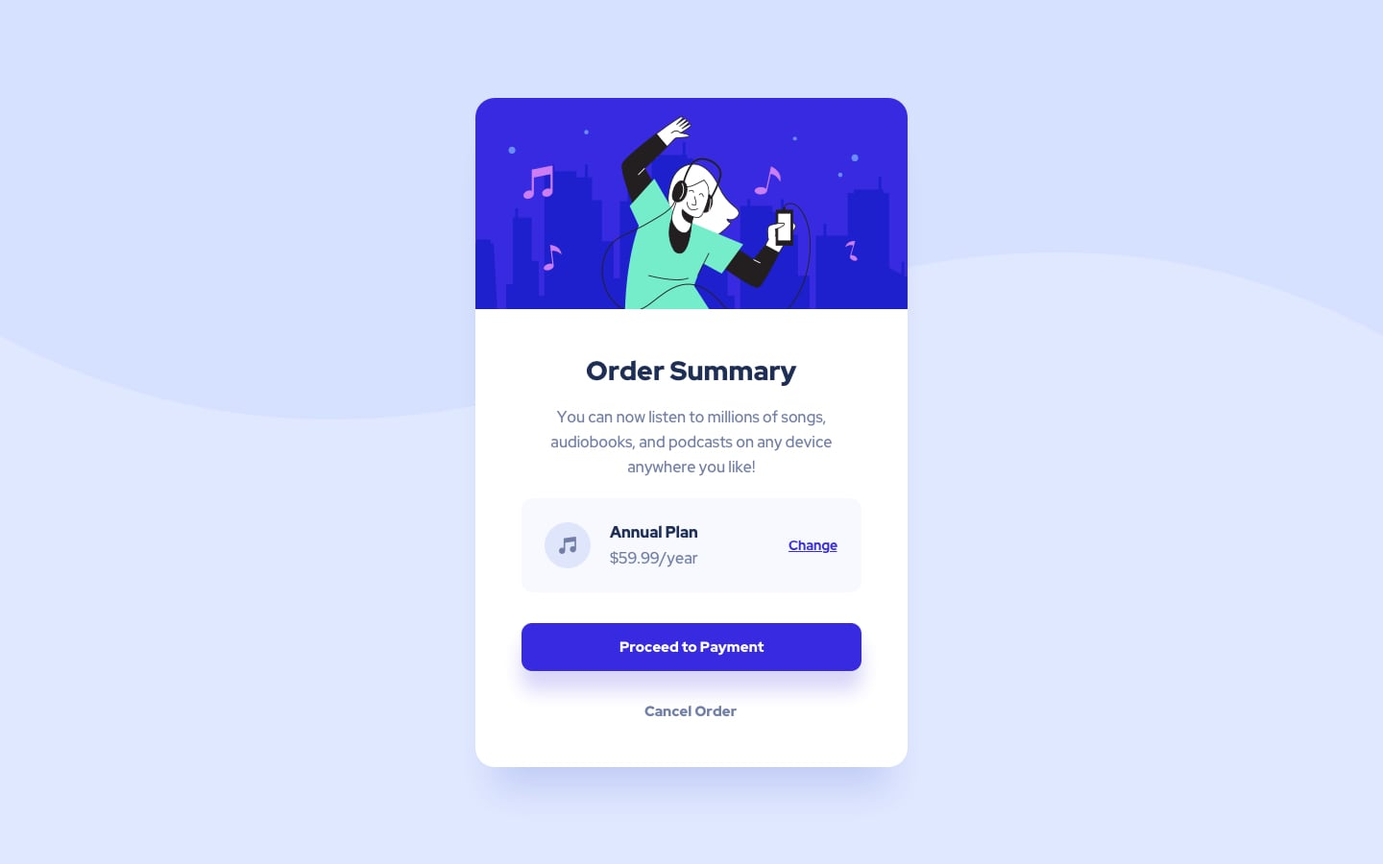
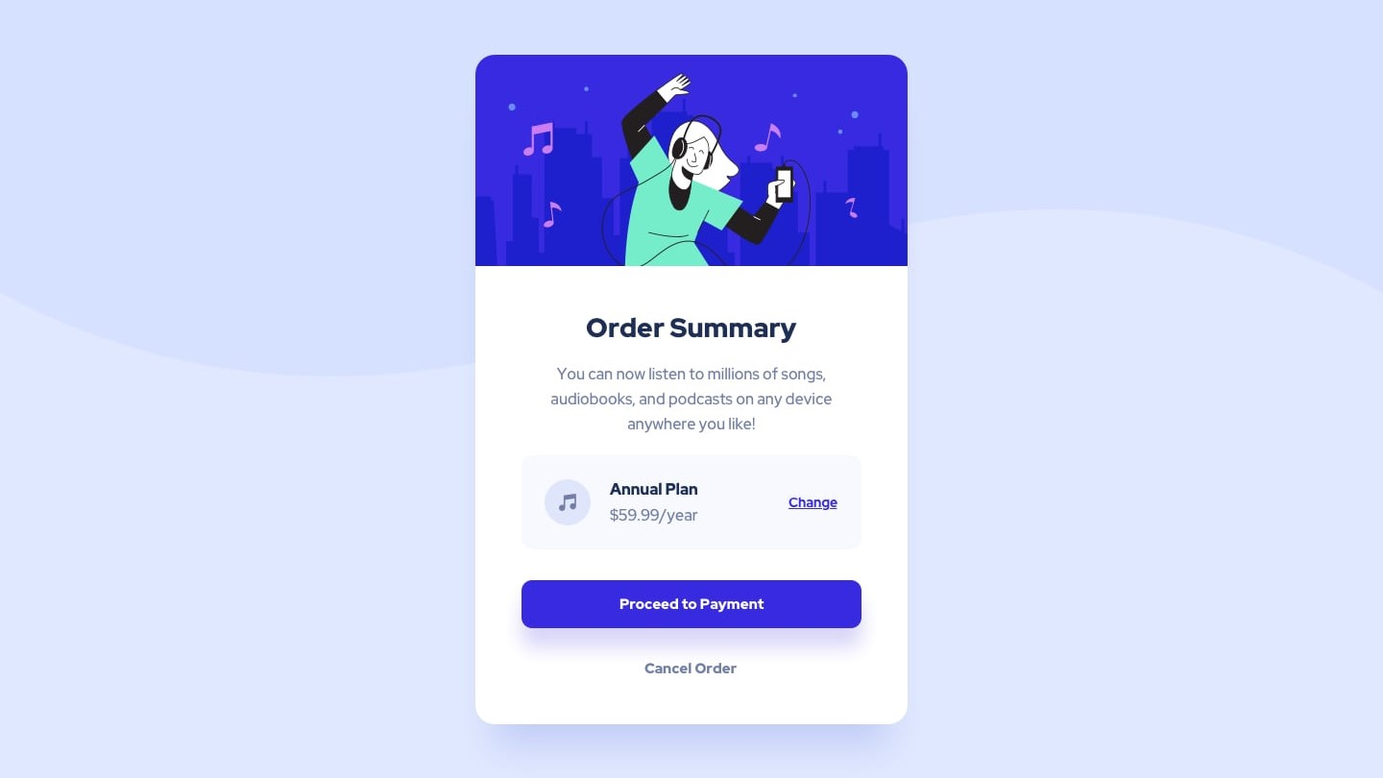
Finished most of the challenge

diff --git a/index.html b/index.html
@@ -1,37 +1,139 @@
 <!DOCTYPE html>
 <html lang="en">
+
 <head>
   <meta charset="UTF-8">
-  <meta name="viewport" content="width=device-width, initial-scale=1.0"> <!-- displays site properly based on user's device -->
-
+  <meta name="viewport" content="width=device-width, initial-scale=1.0">
+  <!-- displays site properly based on user's device -->
+  <link rel="stylesheet" href="./styles.css">
   <link rel="icon" type="image/png" sizes="32x32" href="./images/favicon-32x32.png">
-  
+
   <title>Frontend Mentor | Order summary card</title>
-
-  <!-- Feel free to remove these styles or customise in your own stylesheet 👍 -->
-  <style>
-    .attribution { font-size: 11px; text-align: center; }
-    .attribution a { color: hsl(228, 45%, 44%); }
-  </style>
 </head>
+
 <body>
-
-  Order Summary
-
-  You can now listen to millions of songs, audiobooks, and podcasts on any 
-  device anywhere you like!
-
-  Annual Plan
-  $59.99/year
-
-  Change
-
-  Proceed to Payment
-  Cancel Order
-  
+  <div class="back">
+    <img src="./images/pattern-background-desktop.png" alt="">
+  </div>
+  <div class="parent">
+    <div class="card">
+      <svg xmlns="http://www.w3.org/2000/svg" xmlns:xlink="http://www.w3.org/1999/xlink" width="450" height="220">
+        <defs>
+          <path id="a" d="M0 0h450v220H0z" />
+        </defs>
+        <g fill="none" fill-rule="evenodd">
+          <mask id="b" fill="#fff">
+            <use xlink:href="#a" />
+          </mask>
+          <use fill="#382AE1" xlink:href="#a" />
+          <path fill="#1E1FCD" fill-rule="nonzero"
+            d="M218.812 46v13.368h1.685v3.623h6.303v77.983l12.758 6.699v-12.891h3.046v14.545l2.984 1.543v112.908L31.9 266.214v-72.237h7.013V124.52h2.548v-9.55h3.045v9.55h14.15l-.001.014v.196c-.01 2.072-.088 19.036-.094 31.525v3.018c.003 5.998.028 10.37.094 10.445.066.075.784.104 1.747.108h.5c2.152-.008 5.071-.108 5.071-.108v36.439h5.786V76.399h7.379v-7.156h3.045V76.4h23.111v6.395h8.79v-13.55h3.045v13.55h4.314v23.771h10.353v42.63h12.18v38.692h6.384v-80.419h8.04V95.156h3.044v12.312h22.117V63.022h6.455v-3.654h25.75V46h3.046zM15.842 147.489v4.151h3.198L25.475 265.9H-8l6.445-114.259H.962v-4.151h14.88z"
+            mask="url(#b)" />
+          <path fill="#1E1FCD" fill-rule="nonzero"
+            d="M422.812 82v13.368h1.685v3.623h6.303v77.983l12.758 6.699v-12.891h3.046v14.545l2.984 1.543v112.908L235.9 302.214v-72.237h7.013V160.52h2.548v-9.55h3.045v9.55h14.15l-.001.014v.196c-.01 2.072-.088 19.036-.094 31.525v3.018c.003 5.998.028 10.37.094 10.445.066.075.784.104 1.747.108h.5c2.152-.008 5.071-.108 5.071-.108v36.439h5.786V112.399h7.379v-7.156h3.045v7.156h23.111v6.395h8.79v-13.55h3.045v13.55h4.314v23.771h10.353v42.63h12.18v38.692h6.384v-80.419h8.04v-12.312h3.044v12.312h22.117V99.022h6.455v-3.654h25.75V82h3.046zm-202.97 101.489v4.151h3.198l6.435 114.259H196l6.445-114.259h2.517v-4.151h14.88z"
+            mask="url(#b)" />
+          <g fill-rule="nonzero" mask="url(#b)">
+            <path fill="#FFF"
+              d="M224.743 27.894c-.147-2.117-9.625 4.042-9.625 4.042s8.029-6.159 7.34-7.698c-.688-1.54-9.734 5.196-9.734 5.196s8.257-6.351 6.982-7.707c-1.275-1.357-10.093 5.782-10.093 5.782s8.992-7.9 5.56-8.092c-1.541-.082-13.643 8.138-26.754 18.008 3.67 4.582 7.34 9.008 11.304 13.288 4.202-4.344 7.514-7.799 7.964-8.376 1.348-1.732 14.744-.577 14.799-2.694.055-2.117-8.826-3.08-8.826-3.08s11.23-6.552 11.083-8.669z" />
+            <path fill="#231F20"
+              d="M199.667 51.125a.404.404 0 01-.302-.128c-3.524-3.812-7.12-8.037-11.332-13.316a.421.421 0 01-.091-.311.458.458 0 01.165-.284c9.698-7.332 24.837-18.081 27.002-18.081.485-.046.942.234 1.12.687.293.825-.734 2.346-2.083 3.877 2.514-1.677 5.028-2.97 5.817-2.126.186.2.273.471.238.742-.064.751-.917 1.833-2.055 3.033 1.725-1.017 3.34-1.787 4.083-1.594a.77.77 0 01.55.43c.45.963-1.275 2.924-3.284 4.766 2.156-1.155 4.34-2.09 5.175-1.668a.834.834 0 01.468.715c.137 1.98-7.157 6.561-10.286 8.43 2.863.395 8.01 1.375 7.964 3.355 0 1.439-3.037 1.677-7.945 1.933-2.863.156-6.423.349-6.937 1.008-.514.66-3.028 3.281-7.991 8.413a.45.45 0 01-.276.12zM188.96 37.498c3.955 4.949 7.34 8.972 10.717 12.6 5.817-6.01 7.34-7.679 7.624-8.018.697-.916 3.322-1.1 7.551-1.329 2.496-.137 7.139-.384 7.157-1.118 0-1.072-4.367-2.208-8.45-2.657a.413.413 0 01-.358-.33.421.421 0 01.192-.45c5.441-3.152 11.01-7.11 10.937-8.247-.569-.394-4.68 1.613-8.982 4.408a.422.422 0 01-.477-.687c4.138-3.171 7.496-6.534 7.184-7.194-.615-.303-4.799 2.144-9.093 5.36a.422.422 0 01-.514-.668c2.634-2.034 6.845-5.728 6.955-6.983v-.1c-.514-.57-5.074 2.208-9.551 5.818a.432.432 0 01-.587-.064.403.403 0 010-.577c3.202-2.823 6.477-6.415 6.184-7.23 0-.083-.211-.12-.376-.129-1.257-.064-11.543 6.653-26.113 17.595z" />
+            <path fill="#231F20"
+              d="M153.058 68.876c-2.698 8.514 13.597 47.837 13.597 47.837l20.186-24.917c-.45-.77-10.653-18.493-10.653-18.493s15.057-13.92 23.452-22.59c-3.945-4.28-7.67-8.743-11.304-13.288-16.111 12.133-33.792 26.76-35.278 31.451z" />
+            <path fill="#231F20"
+              d="M166.655 117.117h-.1a.394.394 0 01-.313-.248c-.67-1.604-16.322-39.543-13.606-48.103 1.532-4.83 19.268-19.52 35.443-31.653a.404.404 0 01.56.064c4.193 5.26 7.78 9.476 11.295 13.27.14.157.14.393 0 .55-7.735 7.991-21.287 20.583-23.241 22.388a54892.79 54892.79 0 0010.505 18.218c.09.14.09.32 0 .459l-20.185 24.908a.404.404 0 01-.358.147zm21.635-79.133c-15.23 11.473-33.379 26.393-34.865 31.011-2.44 7.698 11.258 41.853 13.322 46.93l19.617-24.166-10.506-18.255a.421.421 0 01.083-.504c.146-.137 14.827-13.746 23.176-22.296-3.376-3.666-6.826-7.716-10.827-12.72z" />
+            <path fill="#FFF"
+              d="M201.044 109.529c1.651 11.418 9.257 21.077 17.515 29.902 4.945 5.242 11.01 10.576 18.25 10.237 3.458-.174 6.706-1.66 9.725-3.345a73.677 73.677 0 0019.974-16.212 4.476 4.476 0 01-4.468-3.995 8.854 8.854 0 009.175-1.027c5.615-4.453 2.89-8.385-1.404-11.702a51.724 51.724 0 01-15.551-19.62c-5.359-11.97-16.002-27.96-31.765-24.313-15.157 3.5-19.268 17.082-21.36 30.553a31.9 31.9 0 00-.091 9.522z" />
+            <path fill="#231F20"
+              d="M236.13 150.098c-7.111 0-13.02-5.223-17.874-10.383-7.753-8.247-15.91-18.264-17.625-30.122a32.412 32.412 0 01.064-9.696c.918-5.773 2.376-13.169 5.835-19.162a23.56 23.56 0 0115.837-11.74c7.193-1.658 20.937-.678 32.25 24.551a51.119 51.119 0 0015.424 19.465c3.211 2.483 4.716 4.665 4.734 6.882 0 1.833-1.11 3.72-3.33 5.499a9.276 9.276 0 01-8.854 1.384 4.12 4.12 0 003.899 2.886.413.413 0 01.395.239.403.403 0 01-.065.449 73.292 73.292 0 01-20.084 16.358c-2.835 1.576-6.24 3.216-9.91 3.39h-.697zm-9.295-80.773c-1.439 0-2.873.164-4.276.486-14.89 3.446-18.91 16.55-21.038 30.242a31.616 31.616 0 00-.064 9.439c1.679 11.638 9.744 21.536 17.432 29.674 4.882 5.186 10.818 10.447 17.92 10.08 3.495-.165 6.789-1.76 9.542-3.29a72.532 72.532 0 0019.267-15.533 4.924 4.924 0 01-4.018-4.316.403.403 0 01.183-.376.395.395 0 01.413 0 8.431 8.431 0 008.707-.972c2.01-1.603 3.028-3.225 3.01-4.83 0-1.905-1.45-3.94-4.404-6.222a52.017 52.017 0 01-15.672-19.776c-9.074-20.308-19.662-24.606-27.002-24.606z" />
+            <path fill="#FFF"
+              d="M305.851 145.37c-.642 2.538-11.184 21.343-11.184 21.343l13.763 7.432s12.45-20.84 13.514-22.223c1.065-1.384 10.093-13.398 11.323-17.613 1.23-4.216-7.45-7.332-11.01-6.993-3.56.34-15.763 15.515-16.406 18.054z" />
+            <path fill="#231F20"
+              d="M308.411 174.567a.361.361 0 01-.193-.055l-13.762-7.432a.403.403 0 01-.202-.257.394.394 0 010-.32c3.67-6.48 10.634-19.246 11.139-21.234.679-2.694 13.02-18.044 16.744-18.328 2.707-.23 8.35 1.41 10.616 4.15a3.598 3.598 0 01.844 3.373c-1.312 4.582-11.295 17.632-11.386 17.76-1.046 1.348-13.369 21.994-13.497 22.178a.395.395 0 01-.303.165zm-13.166-8.028l13.02 7.047c1.678-2.813 12.33-20.62 13.33-21.92 2.102-2.75 10.149-13.637 11.25-17.477a2.747 2.747 0 00-.689-2.611c-2.064-2.502-7.431-4.06-9.89-3.85-3.358.294-15.451 15.58-16.011 17.742-.606 2.392-9.487 18.347-11.01 21.069z" />
+            <path fill="#231F20"
+              d="M301.897 153.498l-12.295 14.975-26.516-17.751-11.295 21.004s37.554 28.161 42.876 25.467c5.321-2.694 21.442-35.924 21.442-35.924l-14.212-7.77z" />
+            <path fill="#231F20"
+              d="M293.814 197.761c-7.744 0-38.6-22.965-42.27-25.714a.412.412 0 01-.11-.514l11.294-21.004a.404.404 0 01.578-.147l26.195 17.55 12.066-14.663a.395.395 0 01.504-.1l14.258 7.77a.412.412 0 01.165.532c-.66 1.366-16.267 33.385-21.662 36.107-.32.141-.67.204-1.018.183zm-41.509-26.154c10.607 7.927 38.031 27.327 42.206 25.229 4.853-2.466 19.387-31.855 21.103-35.392l-13.616-7.433-12.084 14.718a.386.386 0 01-.532.083l-26.158-17.513-10.919 20.308zM313.155 116.878l-.12 36.62h17.351v-36.62z" />
+            <path fill="#231F20"
+              d="M330.386 153.938h-17.35a.404.404 0 01-.404-.412l.11-36.657a.413.413 0 01.413-.403h17.23c.224 0 .404.18.404.403v36.657a.403.403 0 01-.403.412zm-16.938-.806h16.516v-35.85H313.54l-.092 35.85z" />
+            <path fill="#FFF" d="M314.916 120.113l-.091 28.776h13.781v-28.776z" />
+            <path fill="#231F20"
+              d="M328.606 149.301h-13.763a.404.404 0 01-.294-.119.403.403 0 01-.119-.302l.083-28.767a.422.422 0 01.422-.412h13.689c.228 0 .413.184.413.412v28.776a.413.413 0 01-.431.412zm-13.36-.861h12.938v-27.905h-12.846l-.091 27.905z" />
+            <path fill="#FFF"
+              d="M305.099 147.276s-2.587-12.335 1.294-14.269c3.88-1.933 17.221-4.197 15.157-1.173s-9.294 4.894-9.294 4.894 1.486 4.316-.147 7.377" />
+            <path fill="#231F20"
+              d="M305.099 147.688a.404.404 0 01-.404-.33c-.11-.513-2.615-12.674 1.514-14.727 3.35-1.658 14.157-3.794 15.735-1.997a1.09 1.09 0 01-.055 1.438c-1.835 2.75-7.496 4.49-9.11 4.95.339 1.2 1.11 4.636-.303 7.33a.422.422 0 01-.57.165.43.43 0 01-.173-.568c1.532-2.859.137-6.992.119-7.038a.412.412 0 010-.33.44.44 0 01.266-.21c.073 0 7.101-1.833 9.056-4.72.137-.202.174-.348.11-.422-.991-1.136-11.01.367-14.735 2.2-2.946 1.466-1.762 10.456-1.065 13.801a.412.412 0 01-.32.495l-.065-.037z" />
+            <path fill="#75ECCA"
+              d="M209.173 123.32l-22.855-39.185-25.69 28.491 9.541 20.546s-14.68 34.705-14.68 102.73c0 0 78.154-.339 97.825-.339l-25.69-39.91s6.423-18.493 9.735-23.112l19.13 10.402 22.37-30.434-69.686-29.188z" />
+            <path fill="#231F20"
+              d="M208.843 160.674c12.615 7.331 15.597-22.47 16.157-28.922.256-1.775.15-3.583-.312-5.316-.725-2.199-2.422-3.903-4.12-5.498-2.027-1.833-4.367-3.757-7.129-3.876a8.26 8.26 0 00-6.578 3.436 20.15 20.15 0 00-3.156 6.983c-2.973 10.365-2.863 21.307 2.871 30.728a6.591 6.591 0 001.991 2.263l.276.202z" />
+            <path fill="#231F20"
+              d="M212.614 162.232a7.934 7.934 0 01-3.973-1.21l-.285-.174a6.903 6.903 0 01-2.12-2.401c-5.256-8.642-6.266-19.373-2.917-31.048a20.562 20.562 0 013.22-7.12 8.6 8.6 0 016.919-3.593c2.826.119 5.22 1.988 7.34 3.986 1.725 1.586 3.468 3.336 4.23 5.636.473 1.793.586 3.662.33 5.499-.853 9.613-3.303 26.264-10.093 29.774a5.725 5.725 0 01-2.651.65zm.568-44.74a7.875 7.875 0 00-6.01 3.281 19.801 19.801 0 00-3.073 6.846c-3.294 11.455-2.312 21.994 2.826 30.406a6.17 6.17 0 001.835 2.136l.266.155c2.184 1.274 4.11 1.448 5.881.532 4.716-2.438 8.258-13.05 9.671-29.133a13.135 13.135 0 00-.294-5.16c-.697-2.116-2.358-3.775-4.01-5.296-2.054-1.888-4.302-3.666-6.871-3.767h-.22zm33.306-12.701c1.165 4.224-.743 9.604-3.606 12.729-1.908 2.062-6.092 2.612-6.936-.743a17 17 0 012.174-13.04c1.835-3.015 5.35-4.738 7.607-.862.335.603.591 1.247.761 1.916z" />
+            <path fill="#231F20"
+              d="M239.084 119.582a4.414 4.414 0 01-1.046-.12 3.393 3.393 0 01-2.487-2.593 17.477 17.477 0 012.184-13.334c1.285-2.062 3.101-3.308 4.799-3.299.963 0 2.349.45 3.505 2.447.364.63.648 1.305.844 2.007 1.266 4.582-.918 10.08-3.67 13.105a5.729 5.729 0 01-4.13 1.787zm3.404-18.54c-1.395 0-2.945 1.11-4.065 2.906a16.634 16.634 0 00-2.083 12.729c.19.978.93 1.758 1.9 1.997a4.765 4.765 0 004.34-1.43c2.587-2.803 4.697-8.091 3.523-12.343a7.711 7.711 0 00-.762-1.833c-.78-1.338-1.725-2.025-2.816-2.035l-.037.01z" />
+            <path fill="#FFF"
+              d="M226.808 123.696c-1.836 7.03-3.67 23.04-15.369 14.663a14.835 14.835 0 01-3.101-3.317c-5.762-7.67-4.12-12.51-1.138-20.931 1.285-3.666 2.395-7.332 3.67-10.997 1.276-3.666 3.377-7.112 5.12-10.585-.064.12 5.734.916 11.533-1.714 5.799-2.63 10.597-5.36 10.597-5.36 1.57 2.345 3.267 4.123 4.102 6.91.77 2.702.992 5.53.651 8.32-.734 6.846-3.477 14.25-6.588 20.363-3.11 6.112-9.477 2.648-9.477 2.648z" />
+            <path fill="#231F20"
+              d="M217.348 141.172c-1.835 0-3.881-.824-6.157-2.456a15.32 15.32 0 01-3.193-3.409c-5.936-7.908-4.147-12.958-1.192-21.315.614-1.76 1.202-3.565 1.77-5.307.615-1.878 1.248-3.812 1.927-5.709a60.45 60.45 0 013.624-7.725c.514-.972 1.028-1.943 1.514-2.914a.413.413 0 01.56-.184 21.125 21.125 0 0011.148-1.723 155.555 155.555 0 0010.56-5.351.432.432 0 01.56.137c.395.587.79 1.136 1.184 1.677a17.241 17.241 0 012.972 5.334c.783 2.76 1.01 5.647.67 8.495-.67 6.13-3.018 13.416-6.633 20.5a6.695 6.695 0 01-3.973 3.602 8.515 8.515 0 01-5.625-.504 96.92 96.92 0 00-.568 2.391c-1.212 5.251-2.863 12.455-7.24 14.104a5.51 5.51 0 01-1.908.357zm-1.101-48.176c-.44.917-.918 1.76-1.376 2.64a60.01 60.01 0 00-3.579 7.624c-.67 1.833-1.302 3.813-1.917 5.682-.615 1.87-1.156 3.556-1.78 5.324-2.964 8.377-4.588 12.986 1.082 20.537a14.55 14.55 0 003.01 3.235c2.88 2.071 5.34 2.75 7.34 1.998 3.954-1.494 5.505-8.43 6.716-13.499.248-1.063.468-2.062.698-2.914a.43.43 0 01.605-.266 8.01 8.01 0 005.505.67 5.842 5.842 0 003.46-3.172c3.568-7 5.899-14.186 6.55-20.216a20.66 20.66 0 00-.642-8.156 16.573 16.573 0 00-2.881-5.086c-.33-.449-.67-.916-.99-1.384a164.07 164.07 0 01-10.295 5.187 22.044 22.044 0 01-11.506 1.796z" />
+            <path fill="#231F20"
+              d="M224.88 130.496s-5.679-1.292-8.257-6.011c-2.578-4.72-1.018-8.34-1.018-8.34s4.954 5.728 11.22 7.579l-1.944 6.772z" />
+            <path fill="#231F20"
+              d="M224.88 130.9h-.091c-.239-.056-5.89-1.384-8.533-6.205-2.642-4.82-1.11-8.54-1.046-8.697a.404.404 0 01.312-.238.422.422 0 01.367.129c0 .055 4.964 5.663 11.01 7.46a.404.404 0 01.276.503l-1.9 6.754a.404.404 0 01-.394.293zm-9.12-13.958a10.217 10.217 0 001.203 7.332c2.1 3.83 6.358 5.333 7.633 5.709l1.716-6.003c-5.074-1.622-9.184-5.599-10.551-7.038zm12.598-4.792a7.64 7.64 0 01-3.275-1.027.406.406 0 11.403-.705c.707.403 2.753 1.32 3.67.723.597-.384-.055-4.15-1.431-8.247a.406.406 0 11.77-.257c.827 2.447 2.579 8.248 1.093 9.164-.369.23-.795.351-1.23.349z" />
+            <path fill="#231F20"
+              d="M226.68 117.117a6.135 6.135 0 01-2.753-.605c-2.294-1.137-3.67-3.803-4.148-7.927a.413.413 0 01.358-.45.404.404 0 01.45.358c.431 3.83 1.67 6.287 3.67 7.331 3.055 1.512 6.955-.779 6.991-.797a.404.404 0 01.56.138.412.412 0 01-.138.559 11.02 11.02 0 01-4.99 1.393zm.43-18.292a.404.404 0 01-.403-.376c-.065-.916-.33-1.475-.808-1.714-.917-.476-2.633.385-3.202.761a.407.407 0 01-.45-.678c.101-.064 2.45-1.586 4.01-.807a2.611 2.611 0 011.257 2.383.403.403 0 01-.376.43h-.028zm10.176 4.545a.404.404 0 01-.404-.366s-.184-2.016-1.33-2.75c-.991-.65-2.148.834-2.157.853a.404.404 0 01-.569.073.403.403 0 01-.082-.568c.56-.733 1.954-1.888 3.257-1.036 1.477.972 1.68 3.281 1.688 3.373a.403.403 0 01-.367.44l-.036-.019zm-32.27-2.217a8.138 8.138 0 00.735 4.26c1.302 2.411 4.514 3.392 7.138 2.613 6.854-2.026 10.148-15.048 4.964-20.162-4.817-4.747-10.286 2.75-11.414 7.176-.523 2.08-1.349 4.005-1.422 6.113z" />
+            <path fill="#231F20"
+              d="M211.054 108.695a6.424 6.424 0 01-5.661-3.089 8.34 8.34 0 01-.78-4.472c.126-1.534.434-3.047.917-4.509.166-.559.33-1.118.477-1.677.799-3.079 3.762-7.853 7.258-8.816a4.83 4.83 0 014.835 1.448c2.505 2.466 3.322 6.929 2.138 11.648-1.183 4.72-3.964 8.248-7.267 9.164a7.137 7.137 0 01-1.917.303zm-5.634-7.524a7.653 7.653 0 00.688 4.06 5.83 5.83 0 006.67 2.41c3.038-.917 5.607-4.197 6.708-8.605 1.1-4.408.376-8.615-1.918-10.878a4.03 4.03 0 00-4.055-1.256c-3.156.917-5.955 5.435-6.689 8.248a59.1 59.1 0 01-.477 1.705 18.63 18.63 0 00-.918 4.316h-.009z" />
+            <path fill="#231F20"
+              d="M243.12 109.208a.918.918 0 01-.788-1.393c.1-.165 10.276-16.88 12.02-27.3.632-3.776-1.047-7.606-4.726-10.805-5.028-4.362-12.533-6.314-17.846-4.637-9.45 2.988-14.478 24.743-14.533 24.927a.918.918 0 01-1.79-.403c.212-.917 5.322-22.975 15.773-26.274 5.973-1.879 14.029.174 19.598 5.003 4.184 3.666 6.083 8.065 5.34 12.491-1.835 10.777-11.845 27.254-12.267 27.951a.918.918 0 01-.78.44z" />
+            <path fill="#231F20"
+              d="M292.868 239a31.312 31.312 0 01-9.68-1.567 31.764 31.764 0 01-10.156-5.902c-5.092-4.115-9.579-9.027-13.919-13.746-2.752-3.015-5.597-6.13-8.57-9.008-9.312-9.018-18.56-13.82-27.525-14.26-12.056-.605-22.745 6.278-32.489 13.801-.917.733-1.908 1.494-2.881 2.264-7.881 6.24-16.818 13.306-27.828 11.648-7.505-1.128-13.332-6.296-16.892-10.43-8.762-10.18-12.845-24.743-10.817-38.865 2.147-15.212 10.634-25.934 25.232-31.873 12.083-4.911 23.488-11.785 34.526-18.429l.091-.045c6.836-4.124 14.093-9.403 16.048-17.32a.471.471 0 01.917.22c-2.037 8.247-9.469 13.663-16.47 17.878l-.082.055c-11.065 6.663-22.506 13.554-34.654 18.494-14.277 5.8-22.571 16.275-24.672 31.158-1.964 13.856 2 28.106 10.57 38.086 3.459 4.023 9.101 9.045 16.331 10.127 10.616 1.603 19.011-5.04 27.122-11.456l2.89-2.272c9.891-7.634 20.745-14.617 33.095-13.994 9.175.458 18.625 5.343 28.103 14.516 2.991 2.905 5.845 6.03 8.607 9.054 4.312 4.729 8.771 9.614 13.817 13.682a30.956 30.956 0 009.854 5.746c12.396 3.996 24.773.064 36.875-11.693 17.956-17.485 28.076-43.988 27.755-72.8-.147-13.453-2.66-23.965-7.689-32.148-2.027-3.309-4.587-6.993-8.753-8.835-2.128-.916-7.12-1.264-9.046 1.44-.734 1.035-.808 2.254-.918 3.802 0 .67-.092 1.42-.193 2.236a.463.463 0 01-.917-.119c.11-.788.147-1.493.193-2.172.1-1.63.192-3.033 1.082-4.28 2.239-3.143 7.726-2.813 10.166-1.74 4.441 1.942 7.056 5.764 9.175 9.164 5.12 8.33 7.67 18.997 7.827 32.624.32 29.032-9.891 55.81-28.03 73.46-9.194 8.99-18.617 13.49-28.095 13.499zM204.172 37.022a.477.477 0 01-.348-.156.467.467 0 010-.65c2.018-1.751 4.019-2.52 5.954-2.301a6.424 6.424 0 014.166 2.374c.145.206.1.49-.1.641a.46.46 0 01-.643-.1 5.58 5.58 0 00-3.523-2.026c-1.67-.193-3.432.513-5.249 2.09a.45.45 0 01-.257.128z" />
+            <path fill="#231F20"
+              d="M231.505 185.39a.478.478 0 01-.192 0 .43.43 0 01-.184-.569l11.579-23.185a.417.417 0 01.743.376l-11.57 23.148a.413.413 0 01-.376.23zm-21.57 4.518c-13.259 0-28.838-4.29-29.7-4.528a.422.422 0 11.22-.806c.284.073 28.103 7.744 40.967 2.84.218-.08.46.031.541.248a.403.403 0 01-.239.532 34.077 34.077 0 01-11.79 1.714zM320.403 114.312h2v2.969h-2z" />
+            <path fill="#231F20"
+              d="M322.403 117.685h-2a.413.413 0 01-.413-.404v-2.969a.403.403 0 01.413-.403h2c.223 0 .404.18.404.403v2.97a.403.403 0 01-.404.403zm-1.596-.816H322v-2.153h-1.193v2.153z" />
+            <path fill="#FFF"
+              d="M213.026 105.661l-.66-.641a13.34 13.34 0 002.358-15.763l.789-.467a14.283 14.283 0 01-2.487 16.871zm30.278 12.024l-.853-.34c2.68-6.9 2-11.995 2-12.041l.918-.128c.018.192.706 5.36-2.065 12.509zM169.236 79.78l6.647-6.787.655.64-6.646 6.788zM289.407 168.901l.403-.823 7.062 3.453-.403.824z" />
+            <path fill="#CD7DF3"
+              d="M53.797 105.082c-.386-.091-.799-.155-1.175-.284a3.503 3.503 0 01-2.514-2.392 3.662 3.662 0 01.55-2.978 6.67 6.67 0 014.423-2.896c1.184-.266 1.716-.201 3.597.257V74.72l21.727-4.343v26.988a4.58 4.58 0 01-1.606 3.666 6.777 6.777 0 01-6.634 1.631 3.366 3.366 0 01-2.514-2.383 3.552 3.552 0 01.542-2.969 6.616 6.616 0 014.44-2.896 6.301 6.301 0 013.56.257V79.496l-1.541.302a5773.252 5773.252 0 01-15.479 3.089c-.284.055-.33.165-.33.421v16.093a4.92 4.92 0 01-2.12 4.206 7.271 7.271 0 01-3.467 1.411 1.58 1.58 0 00-.193.064h-1.266zm343.808 63.248v-.523a2.802 2.802 0 00-.523-1.328 5.832 5.832 0 00-1.77-1.677 6.528 6.528 0 00-2.303-.917c-.521-.1-1.057-.1-1.578 0h-.138a1.108 1.108 0 010-.183c.092-.358.183-.706.284-1.045l1.835-6.415c.67-2.328 1.35-4.655 2.019-6.983v-.137l-.642-.055a11.426 11.426 0 00-5.13.916 7.402 7.402 0 00-3.587 3.143c-.23.404-.403.834-.596 1.265-.129.275-.23.568-.349.852a.467.467 0 000 .12l.23-.138c.728-.478 1.492-.9 2.284-1.265a8.156 8.156 0 013.9-.696 7.136 7.136 0 011.688.376.76.76 0 000 .137c-1.113 3.861-2.217 7.72-3.312 11.574a.53.53 0 000 .211c.078.682.367 1.322.825 1.833a6.045 6.045 0 002.147 1.659l.716.311.66.193h.184a4.18 4.18 0 001.652 0c.459-.065.879-.293 1.183-.642.1-.139.191-.282.276-.43l.045-.156zm-326.47 9.016c0-.22 0-.45.102-.67.16-.604.477-1.157.917-1.603a7.68 7.68 0 012.624-1.787 8.413 8.413 0 013.138-.706 5.511 5.511 0 012.028.321l.174.064c.005-.079.005-.159 0-.238 0-.467-.092-.916-.147-1.393-.348-2.89-.7-5.77-1.055-8.642-.385-3.134-.78-6.259-1.165-9.384v-.183c.284 0 .569 0 .835.064 2.281.227 4.479.977 6.423 2.19a9.643 9.643 0 013.954 4.766c.2.57.369 1.152.505 1.74.11.386.183.78.275 1.174a.293.293 0 010 .156l-.266-.23a22.815 22.815 0 00-2.68-2.089 10.44 10.44 0 00-4.853-1.677 9.241 9.241 0 00-2.248.128c.005.058.005.117 0 .175.612 5.18 1.239 10.373 1.881 15.579a.65.65 0 010 .265 4.316 4.316 0 01-1.44 2.227 7.71 7.71 0 01-3.102 1.686c-.32.101-.651.175-.972.257l-.918.11H75a5.4 5.4 0 01-2.13-.293 2.44 2.44 0 01-1.375-1.054 4.634 4.634 0 01-.276-.614l-.082-.34zm219.697-81.28c.119-.238.22-.485.357-.705a4.393 4.393 0 011.689-1.457 9.276 9.276 0 013.67-.99 10.104 10.104 0 013.817.43 6.36 6.36 0 012.165 1.165l.174.137a1.63 1.63 0 00.11-.266c.138-.54.266-1.081.386-1.631l2.202-10.172c.789-3.666 1.575-7.35 2.358-11.052l.046-.22c.32.137.624.256.917.394a17.815 17.815 0 016.368 4.985 11.484 11.484 0 012.605 6.937c0 .72-.036 1.439-.11 2.154 0 .486-.1.916-.156 1.439a.394.394 0 01-.055.165l-.22-.358a26.572 26.572 0 00-2.202-3.4 12.402 12.402 0 00-4.826-3.803 10.543 10.543 0 00-2.587-.724h-.065a1.42 1.42 0 01-.046.211l-3.963 18.274a.916.916 0 01-.12.302 5.192 5.192 0 01-2.495 1.952 9.396 9.396 0 01-4.166.687c-.403 0-.798-.055-1.202-.091l-1.055-.22-.174-.074a6.425 6.425 0 01-2.285-1.164 3.033 3.033 0 01-1.147-1.732 7.58 7.58 0 01-.064-.797l.074-.376z" />
+            <path fill="#698DFF"
+              d="M38.092 50.8c-4.725 0-4.734 7.331 0 7.331 4.735 0 4.735-7.33 0-7.33zm357 8c-4.725 0-4.734 7.331 0 7.331 4.735 0 4.735-7.33 0-7.33zm-60.38-16.883a1.933 1.933 0 00-.467-.806l-.376-.284a1.837 1.837 0 00-.918-.257h-.514a1.34 1.34 0 00-.706.165c-.23.07-.435.2-.596.376a1.43 1.43 0 00-.377.586c-.115.217-.169.461-.156.706l.065.495c.086.304.247.58.468.806l.376.285c.279.161.595.246.917.247h.514c.245.014.49-.04.707-.156.226-.075.43-.204.596-.376a2.07 2.07 0 00.532-1.3c-.018-.157-.046-.322-.064-.487zm-219.15-8.568c-2.955 0-2.964 4.582 0 4.582 2.963 0 2.954-4.582 0-4.582zm264.333 44.49c-2.955 0-2.955 4.583 0 4.583 2.954 0 2.954-4.582 0-4.582z" />
+          </g>
+        </g>
+      </svg>
+      <div class="head-and-paragraph">
+        <h1>Order Summary</h1>
+        <p>
+          You can now listen to millions of songs, audiobooks, and podcasts on any
+          device anywhere you like!
+        </p>
+      </div>
+      <div class="plan">
+        <div class="music-icon-and-text">
+          <svg xmlns="http://www.w3.org/2000/svg" width="48" height="48">
+            <g fill="none" fill-rule="evenodd">
+              <circle cx="24" cy="24" r="24" fill="#DFE6FB" />
+              <path fill="#717FA6" fill-rule="nonzero"
+                d="M32.574 15.198a.81.81 0 00-.646-.19L20.581 16.63a.81.81 0 00-.696.803V26.934a3.232 3.232 0 00-1.632-.44A3.257 3.257 0 0015 29.747 3.257 3.257 0 0018.253 33a3.257 3.257 0 003.253-3.253v-8.37l9.726-1.39v5.327a3.232 3.232 0 00-1.631-.441 3.257 3.257 0 00-3.254 3.253 3.257 3.257 0 003.254 3.253 3.257 3.257 0 003.253-3.253V15.81a.81.81 0 00-.28-.613z" />
+            </g>
+          </svg>
+          <div class="plan-price">
+            Annual Plan <br>
+            <span>$59.99/year</span>
+          </div>
+        </div>
+        <a href="">Change</a>
+      </div>
+      <div class="proceed-button">
+        Proceed to Payment
+      </div>
+      <div class="cancel-button">
+        Cancel Order
+      </div>
+    </div>
+  </div>
   <div class="attribution">
-    Challenge by <a href="https://www.frontendmentor.io?ref=challenge" target="_blank">Frontend Mentor</a>. 
-    Coded by <a href="#">Your Name Here</a>.
+    Challenge by <a href="https://www.frontendmentor.io?ref=challenge" target="_blank">Frontend Mentor</a>.
+    Coded by <a href="#">Salah Najem</a>.
   </div>
 </body>
+
 </html>

diff --git a/styles.css b/styles.css
@@ -1,0 +1,138 @@
+@import url("https://fonts.googleapis.com/css2?family=Red+Hat+Display:wght@500;700;900&display=swap");
+:root {
+  --pale-blue: hsl(225, 100%, 94%);
+  --bright-blue: hsl(245, 75%, 52%);
+  --very-pale-blue: hsl(225, 100%, 98%);
+  --desaturated-blue: hsl(224, 23%, 55%);
+  --dark-blue: hsl(223, 47%, 23%);
+  --hover-blue: hsl(245, 73%, 64%);
+}
+* {
+  font-family: "Red Hat Display", sans-serif;
+  font-size: 16px;
+  margin: 0;
+  padding: 0;
+  box-sizing: border-box;
+}
+body {
+  /* overflow: hidden; */
+  z-index: -2;
+  background: var(--pale-blue);
+}
+.back {
+  position: absolute;
+  width: 100vw;
+}
+.back > img {
+  position: absolute;
+  top: 0;
+  left: 0;
+  width: 100%;
+  z-index: -1;
+}
+.parent {
+  display: flex;
+  width: 100vw;
+  height: 100vh;
+  justify-content: center;
+  align-items: center;
+}
+h1 {
+  margin-top: 40px;
+  font-size: 28px;
+  font-weight: 900;
+  color: var(--dark-blue);
+  text-align: center;
+}
+p {
+  text-align: center;
+  margin: 0 60px;
+  margin-top: 20px;
+  line-height: 27px;
+  color: var(--desaturated-blue);
+}
+.card {
+  background: white;
+  width: 450px;
+  overflow: hidden;
+  height: 680px;
+  border-radius: 20px;
+  display: flex;
+  flex-direction: column;
+  flex-wrap: wrap;
+  align-items: center;
+  box-shadow: 0 25px 25px hsla(223, 47%, 23%, 0.08);
+}
+.plan {
+  margin-top: 20px;
+  background: var(--very-pale-blue);
+  width: calc(100% - 100px);
+  display: flex;
+  justify-content: space-between;
+  align-self: center;
+  align-items: center;
+  height: 100px;
+  padding: 20px;
+  border-radius: 15px;
+}
+.plan a {
+  color: var(--bright-blue);
+  font-weight: 700;
+  font-size: 14px;
+  transition: all 0.3s;
+}
+.plan a:hover {
+  color: var(--hover-blue);
+  text-decoration: none;
+}
+.music-icon-and-text {
+  display: flex;
+  width: 160px;
+  justify-content: space-between;
+  align-items: center;
+  line-height: 27px;
+}
+.plan-price {
+  font-weight: 900;
+  letter-spacing: -0.3px;
+  color: var(--dark-blue);
+}
+.plan-price span {
+  font-weight: normal;
+  letter-spacing: initial;
+  color: var(--desaturated-blue);
+}
+.proceed-button:hover {
+  background: var(--hover-blue);
+}
+.proceed-button {
+  cursor: pointer;
+  background: var(--bright-blue);
+  color: white;
+  display: flex;
+  justify-content: center;
+  align-items: center;
+  width: calc(100% - 100px);
+  margin-top: 30px;
+  font-weight: 700;
+  height: 50px;
+  border-radius: 10px;
+  font-size: 14px;
+  box-shadow: 0 15px 15px 7px var(--pale-blue);
+  transition: background 0.3s;
+}
+.cancel-button {
+  cursor: pointer;
+  color: var(--desaturated-blue);
+  font-size: 14px;
+  font-weight: 700;
+  margin-top: 26px;
+  transition: color 0.3s;
+}
+.cancel-button:hover {
+  color: var(--dark-blue);
+}
+.attribution {
+  position: absolute;
+  bottom: 0;
+}
